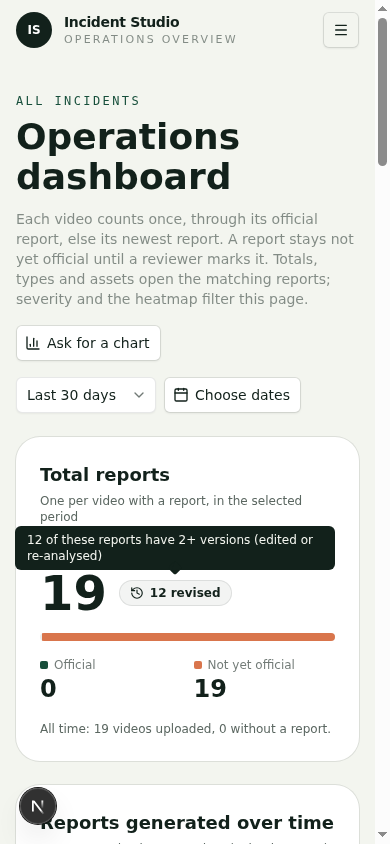
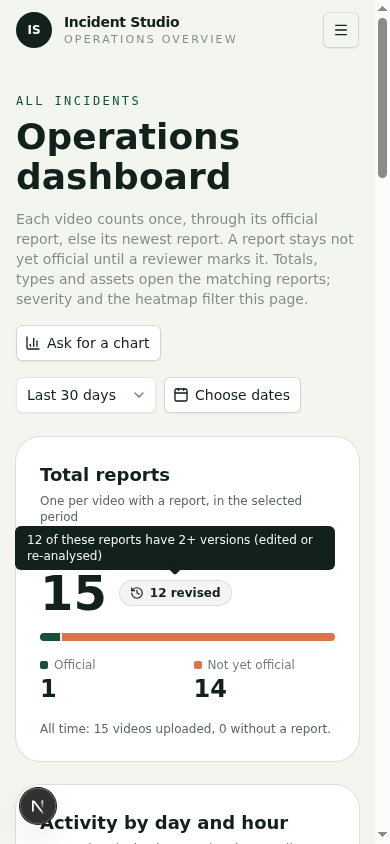
feat(dashboard): heatmap takes the wide slot beside Total reports; trend chart removed
Activity by day and hour moves up beside Total reports (8 of 12 columns).
Reports generated over time is removed from the page: its RPC trend output
and Ask for a chart's trend charts stay as they were. Refreshes the
screenshots of the top of the dashboard at 1440 and 390 px and the tooltip.

diff --git a/deploy/docker/developer-profiles/dev-profile-incident/incident-console-v2/src/sections/dashboard/components/Dashboard/Dashboard.tsx b/deploy/docker/developer-profiles/dev-profile-incident/incident-console-v2/src/sections/dashboard/components/Dashboard/Dashboard.tsx
@@ -3,7 +3,7 @@
 import Link from 'next/link';
 import { useRouter } from 'next/navigation';
 import { useEffect, useMemo, useRef, useState, type ReactNode } from 'react';
-import { Area, AreaChart, Bar, BarChart, Cell, CartesianGrid, LabelList, Pie, PieChart, XAxis, YAxis } from 'recharts';
+import { Bar, BarChart, Cell, LabelList, Pie, PieChart, XAxis, YAxis } from 'recharts';
 import type { DateRange } from 'react-day-picker';
 import { CalendarIcon, ChartColumnIcon, HistoryIcon } from 'lucide-react';
 import type { DashboardAnalytics } from '@/modules/dashboard/domain/types';
@@ -17,7 +17,6 @@ import {
   entityTypeRows,
   evidenceRows,
   formatCalendarDay,
-  formatDay,
   instrumentRows,
   revisedReports,
   SEVERITY_LABELS,
@@ -302,12 +301,24 @@ export function Dashboard() {
           </Panel>
           <Panel
             className="lg:col-span-2 xl:col-span-8"
-            title="Reports generated over time"
-            subtitle={`Reports per day by report date (${timeZone}), official and not yet official`}
+            title="Activity by day and hour"
+            subtitle={`Report time (${timeZone}); select a cell to filter this page`}
           >
             {panel(
               (d) => (
-                <Trend emptyText={emptyText} points={d.trend} />
+                <Heatmap
+                  data={d.heatmap}
+                  emptyText={emptyText}
+                  onSelect={(day, hour) =>
+                    setFilters((f) =>
+                      f.day === String(day) && f.hour === String(hour)
+                        ? { ...f, day: '', hour: '' }
+                        : { ...f, day: String(day), hour: String(hour) },
+                    )
+                  }
+                  selected={`${filters.day}-${filters.hour}`}
+                  timeZone={timeZone}
+                />
               ),
               'h-56',
             )}
@@ -364,30 +375,6 @@ export function Dashboard() {
                 <SplitBars emptyText={emptyText} rows={entityTypeRows(d)} />
               ),
               'h-40',
-            )}
-          </Panel>
-          <Panel
-            className="lg:col-span-2 xl:col-span-12"
-            title="Activity by day and hour"
-            subtitle={`Report time (${timeZone}); select a cell to filter this page`}
-          >
-            {panel(
-              (d) => (
-                <Heatmap
-                  data={d.heatmap}
-                  emptyText={emptyText}
-                  onSelect={(day, hour) =>
-                    setFilters((f) =>
-                      f.day === String(day) && f.hour === String(hour)
-                        ? { ...f, day: '', hour: '' }
-                        : { ...f, day: String(day), hour: String(hour) },
-                    )
-                  }
-                  selected={`${filters.day}-${filters.hour}`}
-                  timeZone={timeZone}
-                />
-              ),
-              'h-56',
             )}
           </Panel>
         </div>
@@ -480,41 +467,6 @@ function RevisedChip({ count }: { count: number }) {
         <TooltipContent>{explanation}</TooltipContent>
       </Tooltip>
     </TooltipProvider>
-  );
-}
-
-function Trend({ points, emptyText }: { points: DashboardAnalytics['trend']; emptyText: string }) {
-  if (!points.some((x) => x.count)) return <NoData text={emptyText} />;
-  return (
-    <ChartContainer config={splitConfig} className="aspect-auto h-56 w-full">
-      <AreaChart accessibilityLayer data={points} margin={{ top: 8, right: 4, left: 0, bottom: 0 }}>
-        <CartesianGrid vertical={false} />
-        <XAxis axisLine={false} dataKey="date" minTickGap={28} tickFormatter={formatDay} tickLine={false} tickMargin={8} />
-        <YAxis allowDecimals={false} axisLine={false} tickLine={false} width={28} />
-        <ChartTooltip content={<ChartTooltipContent labelFormatter={(value) => formatDay(String(value))} />} cursor={false} />
-        <ChartLegend content={<ChartLegendContent />} itemSorter={null} />
-        <Area
-          dataKey="official"
-          fill="var(--color-official)"
-          fillOpacity={0.35}
-          isAnimationActive={false}
-          stackId="split"
-          stroke="var(--color-official)"
-          strokeWidth={2}
-          type="monotone"
-        />
-        <Area
-          dataKey="notOfficial"
-          fill="var(--color-notOfficial)"
-          fillOpacity={0.35}
-          isAnimationActive={false}
-          stackId="split"
-          stroke="var(--color-notOfficial)"
-          strokeWidth={2}
-          type="monotone"
-        />
-      </AreaChart>
-    </ChartContainer>
   );
 }
 

diff --git a/deploy/docker/developer-profiles/dev-profile-incident/incident-console-v2/src/modules/dashboard/domain/charts.ts b/deploy/docker/developer-profiles/dev-profile-incident/incident-console-v2/src/modules/dashboard/domain/charts.ts
@@ -118,7 +118,3 @@ export function formatCalendarDay(date: Date): string {
 const MONTHS = ['Jan', 'Feb', 'Mar', 'Apr', 'May', 'Jun', 'Jul', 'Aug', 'Sep', 'Oct', 'Nov', 'Dec'];
 
 /** A trend date (YYYY-MM-DD, already the viewer's day) as "Oct 28"; never re-read through a Date, which would shift it. */
-export function formatDay(date: string): string {
-  const [, month, day] = date.split('-').map(Number);
-  return month && day ? `${MONTHS[month - 1]} ${day}` : date;
-}

diff --git a/deploy/docker/developer-profiles/dev-profile-incident/.docs/console-reference.md b/deploy/docker/developer-profiles/dev-profile-incident/.docs/console-reference.md
@@ -79,7 +79,7 @@ time constraints. The API forwards inclusive day boundaries, optional time-of-da
 ## Dashboard analytics and cross-filtering
 
 `GET /api/dashboard` calls the service-role-only `get_incident_dashboard` RPC through `DashboardRepository.getDashboard`. It counts **one report per video: the official revision, else the newest**, the Library's rule, and reports how many are official and how many are not yet official. Nothing is marked official by being counted.
-- The page shows nine fixed displays: Total reports (the official and not-yet-official split, and a neutral **N revised** chip beside the big total: the counted reports whose video has more than one version, shown with a history icon, a tooltip that explains "N of these reports have 2+ versions (edited or re-analysed)" on hover and keyboard focus, and that full text as its accessible label; not a split part, no official or not-yet-official colour, not linked because the Library has no version filter, and hidden when the count is 0), Reports generated over time (a stacked area; each report counts on its own time, the official revision's else the newest's), Incidents by type and Top targeted assets (ranked bars), Severity breakdown (a donut with the split listed beside it; the list is the filter control), Evidence by kind (the counted reports' entities, instruments and assets, split), Top instruments and Entity types (ranked split bars, unlinked), and Activity by day and hour (a heatmap). A field the RPC does not return (a definition older than `20261106140000`: `multipleVersions`, `evidence`, the entity and instrument split) is read as not loaded, never as 0: the revised chip is omitted, Evidence by kind says it is not available yet, and Top instruments and Entity types draw their totals alone. Every display with a split shows it ([decision](decisions.md#2026-11-06-dashboard-calendar-range-several-versions-line-and-evidence-displays-the-trend-is-titled-by-report-time), amended for the stat by [2026-11-06 header and stat](decisions.md#2026-11-06-dashboard-drops-the-previous-period-comparison-adds-an-ask-for-a-chart-jump-and-restyles-the-several-versions-stat), amending [2026-11-01](decisions.md#2026-11-01-dashboard-displays-take-the-form-their-data-suits)). The RPC still returns the other sections (threat levels, confidence, model coverage) for the port's other callers.
+- The page shows eight fixed displays: Total reports (the official and not-yet-official split, and a neutral **N revised** chip beside the big total: the counted reports whose video has more than one version, shown with a history icon, a tooltip that explains "N of these reports have 2+ versions (edited or re-analysed)" on hover and keyboard focus, and that full text as its accessible label; not a split part, no official or not-yet-official colour, not linked because the Library has no version filter, and hidden when the count is 0), with Activity by day and hour beside it in the wide slot (a heatmap of report time in the viewer's zone; select a cell to filter the page; All, Official and Not yet official toggle), then Incidents by type and Top targeted assets (ranked bars), Severity breakdown (a donut with the split listed beside it; the list is the filter control), Evidence by kind (the counted reports' entities, instruments and assets, split), Top instruments and Entity types (ranked split bars, unlinked). The trend chart (Reports generated over time) is removed from the page; the RPC still returns its daily `trend` and Ask for a chart still charts it. A field the RPC does not return (a definition older than `20261106140000`: `multipleVersions`, `evidence`, the entity and instrument split) is read as not loaded, never as 0: the revised chip is omitted, Evidence by kind says it is not available yet, and Top instruments and Entity types draw their totals alone. Every display with a split shows it ([decision](decisions.md#2026-11-06-dashboard-calendar-range-several-versions-line-and-evidence-displays-the-trend-is-titled-by-report-time), amended for the stat by [2026-11-06 header and stat](decisions.md#2026-11-06-dashboard-drops-the-previous-period-comparison-adds-an-ask-for-a-chart-jump-and-restyles-the-several-versions-stat), amending [2026-11-01](decisions.md#2026-11-01-dashboard-displays-take-the-form-their-data-suits)). The RPC still returns the other sections (threat levels, confidence, model coverage) for the port's other callers.
 - `DashboardQuery.scope` (`all`, `official`, `not_official`; `GET /api/dashboard?scope=`) narrows the statistics to one report status. The route defaults to `all` and always sends it to the RPC.
 - All-time video counts are shown as a static note on the Total card.
 - Evidence statistics are normalised asset names (and canonical entity types and instrument names in the RPC), counted per distinct incident.
@@ -89,7 +89,7 @@ time constraints. The API forwards inclusive day boundaries, optional time-of-da
 - The period is a preset (last 7 or 30 days, all time) or **Choose dates**: a calendar range (shadcn `Calendar` in a `Popover`, range mode; days after today are disabled; Apply commits, Cancel keeps the period). Choosing **Custom range** in the period select opens the same calendar, and choosing it again while a range is applied reopens it with that range. The browser sends the range as zoneless UTC from local midnight of the first day to local midnight after the last (`customWindow` in `domain/charts.ts`), with `days=custom`; `GET /api/dashboard` requires both `after` and `before` for `custom`. Every display and every Library drill-down link uses the same window, so the totals match.
 - **Header and jump:** the header has no comparison with the previous period (the RPC still returns `previous` for a bounded period, and the console does not read it). Its **Ask for a chart** button scrolls smoothly to the section at the foot of the page (`id="ask-for-a-chart"`) and focuses its request box (`id="chart-request-text"`), both ids exported from `src/sections/dashboard/chart-request-jump.ts`; with `prefers-reduced-motion` the scroll is instant.
 - **Ask for a chart:** `POST /api/dashboard/chart {request, chartType, timezone}` takes one request and the user's chart kind (bar, stacked bar, horizontal bar, donut, line or area; `pie` is read as donut), and answers `{kind: 'chart', chart}`, `{kind: 'unsupported'}` or `{kind: 'needs_bar'}`. The model only picks a strict `ChartSpec` from the allowlist in `modules/dashboard/domain/chart-spec.ts`. Its `period` is a preset or a calendar period: `{month}` (`YYYY-MM`), `{day}` (`YYYY-MM-DD`) or `{from, to}`, which must be real dates, not after today in the viewer's time zone, not reversed and at most 366 days (`domain/chart-period.ts`; a month still running counts up to today). The console sends the model today's date and the viewer's zone in the user message, so "October" resolves to the most recent one not in the future. `generateChart` counts a calendar period from local midnight of its first day to local midnight after its last, titles the chart with the range in words (for example "Reports per day, 1 to 15 October 2026") and passes the same range to `getDashboard`; `generateChart` runs `getDashboard` (plus one query per report status for report charts), builds the rows, title and labels itself, and sends the figures and the palette colours to VSS `chart_generator` on the agent through the `ChartRenderer` port. The agent returns a Chart.js configuration with those figures in it; the console checks every label and figure against its rows (`domain/chart-config.ts`) and answers a 502 on a mismatch, so no altered figure is shown. The browser draws the configuration with `chart.js` and `react-chartjs-2` (`ChartJsView`, loaded only when a chart comes back); the Table tab gives every row and the chart's accessible label names its title, scope and totals. With no configuration back (a `200` with `chart_config: null`, or the agent answers `422`, `404` or `501` for the Chart.js item, as an agent without Chart.js output does), the PNG is drawn instead (a donut as a pie, the rest as bars); any other failure is a 502. A kind that does not suit the dimension answers `needs_bar`: a stacked bar needs the official split, a donut needs a whole, a line or area needs a day, week or month trend, and a bar always suits (`domain/chart-kinds.ts`). Colours are in `src/lib/ui/chart-colors.ts`; no records means nothing is drawn. Before the model reads the request, `generateChart` normalises canonical severity words to their dashboard band in code (`domain/severity-words.ts`, `chart-severity-words-v2`: a word maps only when all the severity levels the project definitions tie it to share one band: minimal, very low and minor→low, moderate→medium, severe and critical→high; only where the word qualifies severity or an incident noun; serious, significant and other words stay as typed; [decision](decisions.md#2026-11-03-dashboard-chart-requests-normalise-canonical-severity-words-in-code)). The console posts its prompt and the (normalised) request to the agent's `POST /api/v1/incidents/chart-requests`, where the agent's own LLM (`chart_generator.llm_name`) answers with the JSON object it wrote; the console validates that object as above. Invalid input is 400, a missing `INCIDENT_AGENT_BASE_URL` 503, and a failed model or drawing call a plain 502 ([decision](decisions.md#2026-11-02-dashboard-chart-requests-are-read-by-the-vss-agents-own-llm-not-the-local-vlm-gateway), amending [2026-10-31](decisions.md#2026-10-31-dashboard-chart-requests-a-model-picks-an-allowlisted-spec-our-code-fetches-the-figures-and-vss-chart_generator-draws-them); calendar periods: [decision](decisions.md#2026-11-06-dashboard-chart-requests-take-calendar-periods-a-month-a-day-or-a-range-read-against-today-in-the-viewers-time-zone)).
-- The trend days, the heatmap and the weekday/hour cross-filters use the viewer's local time: `GET /api/dashboard` forwards the browser's detected `timezone` (e.g. `America/New_York`) to `p_timezone`, which groups and filters `generated_datetime` in that zone. `/library` detects the same zone itself, so drill-down links carry no timezone and the totals still match. The old `/reports` URL redirects to `/library` with its query string.
+- The heatmap and its weekday/hour cross-filters use the viewer's local time: `GET /api/dashboard` forwards the browser's detected `timezone` (e.g. `America/New_York`) to `p_timezone`, which groups and filters `generated_datetime` in that zone. `/library` detects the same zone itself, so drill-down links carry no timezone and the totals still match. The old `/reports` URL redirects to `/library` with its query string.
 
 ## Report versions: View, Edit and History
 

diff --git a/deploy/docker/developer-profiles/dev-profile-incident/.docs/decisions.md b/deploy/docker/developer-profiles/dev-profile-incident/.docs/decisions.md
@@ -99,6 +99,7 @@ Decisions that still shape `dev-profile-incident`, newest first. Each entry: dec
 ### 2026-11-06: Dashboard drops the previous-period comparison, adds an Ask for a chart jump, and restyles the several-versions stat
 - **Decision:** the header's "vs. previous period" checkbox and the "+N% vs. previous" line on Total reports are removed, with the console code that only served them (`delta`). In their place is an **Ask for a chart** button that scrolls to the section at the foot of the page and focuses its request box (smooth, instant under reduced motion). The several-versions figure becomes a labelled **Multiple versions** stat (layers icon, neutral tone, hidden when not loaded) below the official split, not a sentence and not coloured like official or not yet official.
 - **Amended 2026-11-06 (later):** the stat is replaced by a neutral **N revised** chip (history icon) beside the total, with a tooltip that is also its accessible label, hidden when not loaded or 0; the captain chose it over a two-column split and a share bar, which could confuse readers.
+- **Amended 2026-11-06 (later, the captain):** Activity by day and hour takes the wide slot beside Total reports, and **Reports generated over time** is removed from the page (no migration: the RPC keeps its `trend` output and Ask for a chart keeps its trend charts).
 - **Why:** the captain found the comparison unwanted and the sentence untidy, and the chart request is the page's main action, so it should be one click from the header.
 - **Alternatives rejected:** keeping the comparison behind a toggle (the captain asked for it gone); removing the RPC's `previous` output (the RPC and its output stay untouched, so there is no migration and other callers are unaffected); linking the stat to the Library (it has no version filter).
 - **Links:** [`Dashboard.tsx`](../incident-console-v2/src/sections/dashboard/components/Dashboard/Dashboard.tsx), [`ChartRequest.tsx`](../incident-console-v2/src/sections/dashboard/components/ChartRequest/ChartRequest.tsx), [console reference](console-reference.md#dashboard-analytics-and-cross-filtering), amending [2026-11-06 calendar range](#2026-11-06-dashboard-calendar-range-several-versions-line-and-evidence-displays-the-trend-is-titled-by-report-time) for the line and the comparison.
